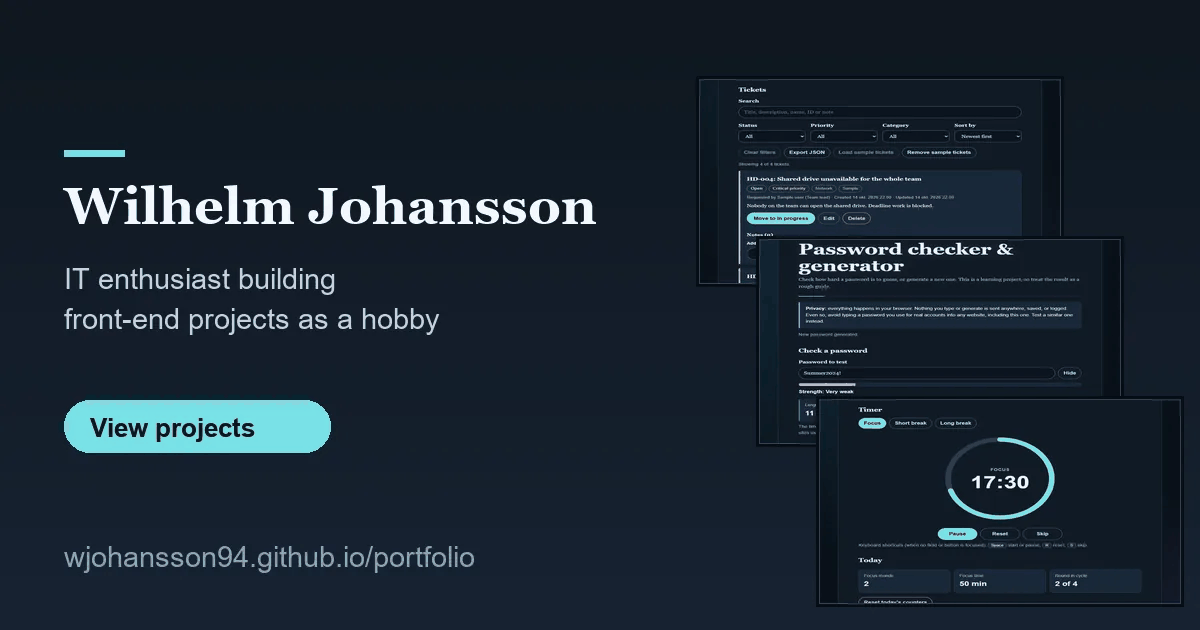
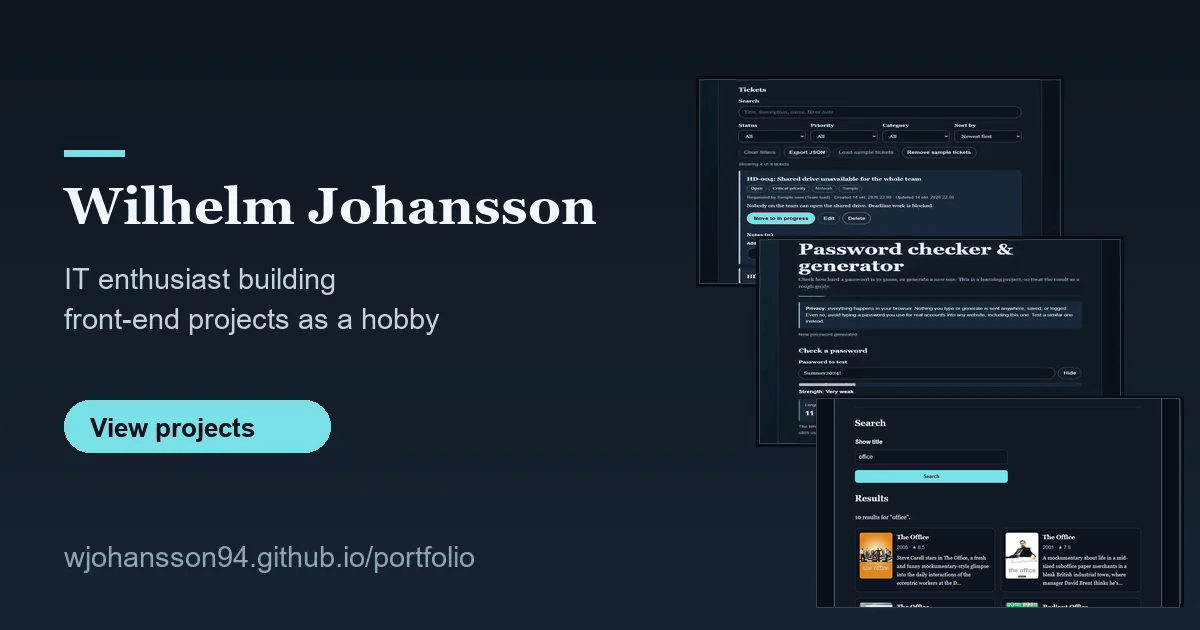
Add Show search project, feature it instead of Pomodoro (#39)

Changed region(s): [[0.6783, 0.6333, 0.9867, 0.9651]]

diff --git a/index.html b/index.html
@@ -31,7 +31,7 @@
     <meta property="og:image:type" content="image/png" />
     <meta
       property="og:image:alt"
-      content="Wilhelm Johansson, IT enthusiast building front-end projects as a hobby, with screenshots of the helpdesk, password and Pomodoro apps"
+      content="Wilhelm Johansson, IT enthusiast building front-end projects as a hobby, with screenshots of the helpdesk, password and show search apps"
     />
     <meta name="twitter:card" content="summary_large_image" />
     <meta
@@ -48,7 +48,7 @@
     />
     <meta
       name="twitter:image:alt"
-      content="Wilhelm Johansson, IT enthusiast building front-end projects as a hobby, with screenshots of the helpdesk, password and Pomodoro apps"
+      content="Wilhelm Johansson, IT enthusiast building front-end projects as a hobby, with screenshots of the helpdesk, password and show search apps"
     />
     <link rel="icon" type="image/svg+xml" href="favicon.svg" />
     <script src="theme.js"></script>
@@ -274,43 +274,43 @@
           <article class="project-featured">
             <img
               class="project-preview"
-              src="pomodoro.webp"
+              src="shows.webp"
               width="1000"
               height="563"
               loading="lazy"
               decoding="async"
-              alt="Screenshot of the Pomodoro timer in dark mode showing a circular progress ring at 17:30 in focus mode, with Pause, Reset and Skip buttons and today's counters"
+              alt="Screenshot of the Show search app in dark mode with a search for office, showing a Show title field and result cards with posters, years, ratings and short summaries"
             />
-            <p class="project-badge">Built with AI</p>
-            <h4>Pomodoro timer</h4>
-            <p class="project-summary">A focus and break timer with a progress ring and daily focus totals.</p>
+            <p class="project-badge">AI-generated, typed by hand</p>
+            <h4>Show search</h4>
+            <p class="project-summary">Search TV shows by title and see posters, years, ratings and short summaries from TVMaze.</p>
             <ul class="project-tech" aria-label="Technologies used">
               <li>HTML</li>
               <li>CSS</li>
               <li>JavaScript</li>
-              <li>SVG</li>
+              <li>TVMaze API</li>
             </ul>
             <details class="project-notes">
               <summary>What I understood</summary>
-              <p><strong>What I understood:</strong> how the time left is calculated from a stored end timestamp instead of counting ticks, how a progress ring is drawn with an SVG circle and stroke-dashoffset, and how the logic is kept in small pure functions that can be tested in Node. Saved settings are validated, and sound and notifications only start after a click.</p>
-              <p><strong>What was tricky to understand:</strong> browsers slow down timers in background tabs, so a tick counter drifts. Using Date.now and recalculating when the tab becomes visible avoids that. Deciding when to announce changes to screen readers was also tricky: only mode changes are announced, not every second.</p>
+              <p><strong>What I understood:</strong> how fetch with async/await calls a public API that needs no key, how the search text is added to the URL with encodeURIComponent, why the results are built with createElement and textContent instead of innerHTML, and how the HTML in each show summary is turned into plain text with DOMParser. Loading, empty and error messages each get their own status text. The data and posters come from TVMaze, so the page needs an internet connection.</p>
+              <p><strong>What was tricky to understand:</strong> fetch only rejects on network problems, so a response with an error status has to be caught by checking response.ok and throwing an error myself. Both cases then end up in the same catch block.</p>
             </details>
             <div class="project-links">
-              <a href="pomodoro.html">Live demo</a>
+              <a href="shows.html">Live demo</a>
               <a
-                href="https://github.com/wjohansson94/portfolio/blob/main/pomodoro.js"
+                href="https://github.com/wjohansson94/portfolio/blob/main/shows.js"
                 target="_blank"
                 rel="noreferrer"
-                aria-label="Code for Pomodoro timer on GitHub"
+                aria-label="Code for Show search on GitHub"
               >
                 Code
               </a>
               <a
                 class="project-readme"
-                href="https://github.com/wjohansson94/portfolio/blob/main/docs/projects/pomodoro.md"
+                href="https://github.com/wjohansson94/portfolio/blob/main/docs/projects/show-search.md"
                 target="_blank"
                 rel="noreferrer"
-                aria-label="Project README for Pomodoro timer on GitHub"
+                aria-label="Project README for Show search on GitHub"
               >
                 README
               </a>
@@ -586,6 +586,51 @@
                 target="_blank"
                 rel="noreferrer"
                 aria-label="Project README for Word guess game on GitHub"
+              >
+                README
+              </a>
+            </div>
+          </article>
+          <article>
+            <img
+              class="project-preview"
+              src="pomodoro.webp"
+              width="1000"
+              height="563"
+              loading="lazy"
+              decoding="async"
+              alt="Screenshot of the Pomodoro timer in dark mode showing a circular progress ring at 17:30 in focus mode, with Pause, Reset and Skip buttons and today's counters"
+            />
+            <p class="project-badge">Built with AI</p>
+            <h4>Pomodoro timer</h4>
+            <p class="project-summary">A focus and break timer with a progress ring and daily focus totals.</p>
+            <ul class="project-tech" aria-label="Technologies used">
+              <li>HTML</li>
+              <li>CSS</li>
+              <li>JavaScript</li>
+              <li>SVG</li>
+            </ul>
+            <details class="project-notes">
+              <summary>What I understood</summary>
+              <p><strong>What I understood:</strong> how the time left is calculated from a stored end timestamp instead of counting ticks, how a progress ring is drawn with an SVG circle, and how the logic is kept in small pure functions that can be tested in Node.</p>
+              <p><strong>What was tricky to understand:</strong> browsers slow down timers in background tabs, so a tick counter drifts. Recalculating from Date.now avoids that.</p>
+            </details>
+            <div class="project-links">
+              <a href="pomodoro.html">Live demo</a>
+              <a
+                href="https://github.com/wjohansson94/portfolio/blob/main/pomodoro.js"
+                target="_blank"
+                rel="noreferrer"
+                aria-label="Code for Pomodoro timer on GitHub"
+              >
+                Code
+              </a>
+              <a
+                class="project-readme"
+                href="https://github.com/wjohansson94/portfolio/blob/main/docs/projects/pomodoro.md"
+                target="_blank"
+                rel="noreferrer"
+                aria-label="Project README for Pomodoro timer on GitHub"
               >
                 README
               </a>

diff --git a/theme.css b/theme.css
@@ -140,7 +140,7 @@ html[data-theme="light"] .intro h1 {
 }
 
 html[data-theme="light"]
-  :is(.profile-card, .todo-card, .lookup-shell, .game-shell, .certificate-viewer, .weather-shell, .helpdesk-shell, .quiz-shell, .password-shell, .word-shell, .pomo-shell, .expense-shell, .flash-shell) {
+  :is(.profile-card, .todo-card, .lookup-shell, .game-shell, .certificate-viewer, .weather-shell, .helpdesk-shell, .quiz-shell, .password-shell, .word-shell, .pomo-shell, .expense-shell, .flash-shell, .shows-shell) {
   box-shadow: 0 18px 44px rgba(20, 33, 46, 0.12);
 }
 
@@ -211,15 +211,15 @@ html[data-theme="light"] button {
 }
 
 html[data-theme="light"]
-  :is(.form-row button, .search-row button, .restart-button, .win-panel button, .primary-button) {
+  :is(.form-row button, .search-row button, .restart-button, .win-panel button, .primary-button, .shows-shell form button) {
   background: var(--btn-bg);
   border-color: var(--btn-bg);
 }
 
 html[data-theme="light"]
-  :is(.form-row button, .search-row button, .restart-button, .win-panel button, .primary-button):hover,
+  :is(.form-row button, .search-row button, .restart-button, .win-panel button, .primary-button, .shows-shell form button):hover,
 html[data-theme="light"]
-  :is(.form-row button, .search-row button, .restart-button, .win-panel button, .primary-button):focus-visible {
+  :is(.form-row button, .search-row button, .restart-button, .win-panel button, .primary-button, .shows-shell form button):focus-visible {
   background: var(--btn-bg-hover);
   border-color: var(--btn-bg-hover);
 }
@@ -289,6 +289,12 @@ html[data-theme="light"] .repo-details h3 a {
 
 html[data-theme="light"] .repo-list li:hover {
   border-bottom-color: var(--border-strong);
+}
+
+/* Show search */
+html[data-theme="light"] .show-card {
+  background: var(--surface);
+  border-color: var(--border);
 }
 
 /* Memory game */

diff --git a/README.md b/README.md
@@ -1,6 +1,6 @@
 # Wilhelm Johansson | Profile
 
-A small static portfolio built with plain HTML, CSS and JavaScript (no build step). It shows a profile page and eleven interactive browser apps: a to-do list, a GitHub profile finder, a memory match game, a weather app, a helpdesk ticket tracker, an IT & security quiz, a password checker/generator, a word guessing game, a Pomodoro timer, an expense tracker and flashcards (the last two typed in by hand in VS Code while following step-by-step guidance from an AI assistant). Most projects here were built with a lot of AI help (GitHub Copilot); I read and test the code to understand it, but I didn't write it unaided. I'm still learning, and the site is written to reflect that honestly.
+A small static portfolio built with plain HTML, CSS and JavaScript (no build step). It shows a profile page and twelve interactive browser apps: a to-do list, a GitHub profile finder, a memory match game, a weather app, a helpdesk ticket tracker, an IT & security quiz, a password checker/generator, a word guessing game, a Pomodoro timer, an expense tracker, flashcards and a TV show search (the last three typed in by hand in VS Code while following step-by-step guidance from an AI assistant). Most projects here were built with a lot of AI help (GitHub Copilot); I read and test the code to understand it, but I didn't write it unaided. I'm still learning, and the site is written to reflect that honestly.
 
 ## Live site
 
@@ -16,6 +16,7 @@ A small static portfolio built with plain HTML, CSS and JavaScript (no build ste
 - [Pomodoro timer](https://wjohansson94.github.io/portfolio/pomodoro.html)
 - [Expense tracker](https://wjohansson94.github.io/portfolio/expenses.html)
 - [Flashcards](https://wjohansson94.github.io/portfolio/flashcards.html)
+- [Show search](https://wjohansson94.github.io/portfolio/shows.html)
 
 ## Overview
 
@@ -23,10 +24,10 @@ A small static portfolio built with plain HTML, CSS and JavaScript (no build ste
 - hero headline "IT enthusiast building front-end projects" framed as a hobby and a place to document learning, with "View projects" (violet accent) and "Contact" buttons that jump to the Projects and Contact sections, and small GitHub and LinkedIn links underneath. React and TypeScript (not started) are mentioned only under "Next goals"
 - sticky anchor navigation (Projects / About / Learning / Contact) with a skip link; smooth scrolling is disabled when `prefers-reduced-motion` is set. On small screens the header is not sticky, so it does not cover the page
 - dark/light theme toggle that follows `prefers-color-scheme` and remembers the choice in `localStorage` (shared by every page via `theme.js` and `theme.css`)
-- three featured projects (Helpdesk tickets, Password checker & generator, Pomodoro timer) shown prominently, and a compact "More projects" grid with the other eight main projects plus the three Mimo course projects (eleven main + three Mimo). The "More projects" grid sits behind a "Show all projects" button (all are visible if JavaScript is off)
-- each project card has a thumbnail, one-line summary, tech chips, a small badge ("Built with AI", "AI-generated, typed by hand" for the Expense tracker and Flashcards, or "Built with Mimo"), "Live demo" and "Code" buttons, and a collapsible "What I understood" / "What was tricky to understand" note describing what I understood from each project's code (not a claim that I wrote it unaided)
+- three featured projects (Helpdesk tickets, Password checker & generator, Show search) shown prominently, and a compact "More projects" grid with the other nine main projects (including the Pomodoro timer) plus the three Mimo course projects (twelve main + three Mimo). The "More projects" grid sits behind a "Show all projects" button (all are visible if JavaScript is off)
+- each project card has a thumbnail, one-line summary, tech chips, a small badge ("Built with AI", "AI-generated, typed by hand" for the Expense tracker, Flashcards and Show search, or "Built with Mimo"), "Live demo" and "Code" buttons, and a collapsible "What I understood" / "What was tricky to understand" note describing what I understood from each project's code (not a claim that I wrote it unaided)
 - one "About & how I learn" section: two short panels ("What I use in my projects", a chip list of the tools and topics, still learning and not a claim of expertise; and "How I learn": guided by an AI assistant and courses, typed and debugged by me, with the AI help stated openly), a five-step "My project routine" strip, and a "Next goals" list of two one-liners (React and TypeScript not started; JavaScript Essentials 1 / JSE and Web Dev 101: HTML / WDE from Edube and JS Institute are planned, not started, with links)
-- a "Certificates & courses" section: the four certificates as a compact list, each with a text "Completed" badge and a "View certificate" link to `certificate-viewer.html`, and a compact "Courses in progress" block with an "In progress" badge (Mimo progress is maintained manually in `index.html`: update the percentage, `aria-valuenow`, fill width and date together). The small projects built during the Mimo course ("My Linktree Project", "Unit Converter" and "Coffee Shop Menu", all hosted on Mimo) are listed as compact cards under "More projects" with a "Built with Mimo" badge; they are not part of the eleven main projects
+- a "Certificates & courses" section: the four certificates as a compact list, each with a text "Completed" badge and a "View certificate" link to `certificate-viewer.html`, and a compact "Courses in progress" block with an "In progress" badge (Mimo progress is maintained manually in `index.html`: update the percentage, `aria-valuenow`, fill width and date together). The small projects built during the Mimo course ("My Linktree Project", "Unit Converter" and "Coffee Shop Menu", all hosted on Mimo) are listed as compact cards under "More projects" with a "Built with Mimo" badge; they are not part of the twelve main projects
 - a "Want to follow my journey? Let's connect." contact section: prominent violet GitHub and LinkedIn buttons plus an outlined Email button (the existing email address), and Instagram, Threads and Bluesky as smaller icon links under "Also find me on"
 - Open Graph / Twitter (`summary_large_image`, with a 1200×630 share image and alt text) / description meta tags, WebP images with width/height and lazy loading
 - transparent attribution of GitHub Copilot as an AI coding assistant
@@ -124,9 +125,17 @@ Typed in by hand in VS Code while following step-by-step guidance from an AI ass
 - cards saved in `localStorage`; loaded data is checked with `isValidCard` and `filter` inside `try/catch`
 - labelled inputs, buttons disabled when there are no cards, `aria-live` counter, reduced-motion respected
 
+### 13. Show search
+Typed in by hand in VS Code while following step-by-step guidance from an AI assistant:
+
+- search TV shows by title with the free [TVMaze](https://www.tvmaze.com/api) search API (no key); each result shows a poster, year, rating and a shortened summary
+- `async`/`await` with `fetch`, a `response.ok` check, and separate loading, empty and error messages in a `role="status"` region
+- the search text goes into the URL with `encodeURIComponent`; results are built with `createElement` and `textContent` (not `innerHTML`), and the HTML in each API summary is turned into plain text with `DOMParser`
+- data and posters come from TVMaze, so the page needs an internet connection
+
 ## Project READMEs
 
-Each of the eleven main projects has a short README in `docs/projects/` (screenshot, what it does, how it's built, how to run it, what I understood, what was tricky, accessibility notes and tests). The pages themselves stay flat files in the repository root, so the live URLs do not change.
+Each of the twelve main projects has a short README in `docs/projects/` (screenshot, what it does, how it's built, how to run it, what I understood, what was tricky, accessibility notes and tests). The pages themselves stay flat files in the repository root, so the live URLs do not change.
 
 | Project | README | Authorship |
 | --- | --- | --- |
@@ -141,13 +150,14 @@ Each of the eleven main projects has a short README in `docs/projects/` (screens
 | Word guess game | [word-guess.md](docs/projects/word-guess.md) | Built with AI (11 tests) |
 | Expense tracker | [expense-tracker.md](docs/projects/expense-tracker.md) | AI-generated, typed by hand |
 | Flashcards | [flashcards.md](docs/projects/flashcards.md) | AI-generated, typed by hand |
+| Show search | [show-search.md](docs/projects/show-search.md) | AI-generated, typed by hand |
 
 ## Project structure
 
 - `index.html`, `style.css` — portfolio page
 - `theme.js`, `theme.css` — shared dark/light theme
 - `certificate-viewer.html/.js` — certificate viewer
-- `todo.html/.css/.js`, `github.html/.css/.js`, `memory-game.html/.css/.js`, `weather.html/.css/.js`, `helpdesk.html/.css/.js`, `quiz.html/.css/.js`, `password.html/.css/.js`, `wordle.html/.css/.js`, `pomodoro.html/.css/.js`, `expenses.html/.css/.js`, `flashcards.html/.css/.js` — the apps
+- `todo.html/.css/.js`, `github.html/.css/.js`, `memory-game.html/.css/.js`, `weather.html/.css/.js`, `helpdesk.html/.css/.js`, `quiz.html/.css/.js`, `password.html/.css/.js`, `wordle.html/.css/.js`, `pomodoro.html/.css/.js`, `expenses.html/.css/.js`, `flashcards.html/.css/.js`, `shows.html/.css/.js` — the apps
 - `tests/` — Node tests for pure game logic (`node --test "tests/*.test.js"`)
 - `docs/projects/` — one short README per main project (screenshot, how it works, how to run it)
 - `*.webp`, `social-preview.png`, `favicon.*` — images (`social-preview.png` is the 1200×630 share image used by `og:image` / `twitter:image`)

diff --git a/docs/projects/show-search.md b/docs/projects/show-search.md
@@ -1,0 +1,33 @@
+# Show search
+
+[Live demo](https://wjohansson94.github.io/portfolio/shows.html) · [Back to the main README](../../README.md)
+
+![Screenshot of the Show search app in dark mode with a search for office and result cards with posters, years, ratings and summaries](../../shows.webp)
+
+**Authorship:** AI-generated, typed by hand. The code was provided step by step by an AI assistant and I typed it in by hand in VS Code, then learned from it.
+
+## What it does
+Search TV shows by title. Each result shows a poster, the premiere year, the rating and a shortened summary. There are separate messages for loading, no results and errors.
+
+## How it's built
+- Files: `shows.html`, `shows.css`, `shows.js` (plus the shared `theme.js` and `theme.css`)
+- Plain HTML, CSS and JavaScript, no libraries
+- Data: the free [TVMaze](https://www.tvmaze.com/api) search API (`https://api.tvmaze.com/search/shows?q=`), no key needed. Nothing is stored in `localStorage`
+- `async`/`await` with `fetch`; the search text is added to the URL with `encodeURIComponent`
+- Results are built with `createElement` and `textContent` (not `innerHTML`); the HTML in each API summary is turned into plain text with `DOMParser`
+- The data and posters come from TVMaze, so the page needs an internet connection
+
+## Run it locally
+No install or build. Serve the repository folder, for example `python -m http.server` (or `npx serve`), and open `http://localhost:8000/shows.html`. An internet connection is needed for the search.
+
+## What I understood
+How `fetch` with `async`/`await` calls a public API that needs no key, how the search text is added to the URL with `encodeURIComponent`, why results are built with `createElement` and `textContent` instead of `innerHTML`, and how the HTML in each show summary is turned into plain text with `DOMParser`. Loading, empty and error messages each get their own status text.
+
+## What was tricky to understand
+`fetch` only rejects on network problems, so a response with an error status has to be caught by checking `response.ok` and throwing an error. Both cases then end up in the same `catch` block.
+
+## Accessibility notes
+The search field has a label, the status text is a `role="status"` region so changes are announced, and posters have alt text (`Poster for <show>`).
+
+## Tests
+No automated tests for this project.
